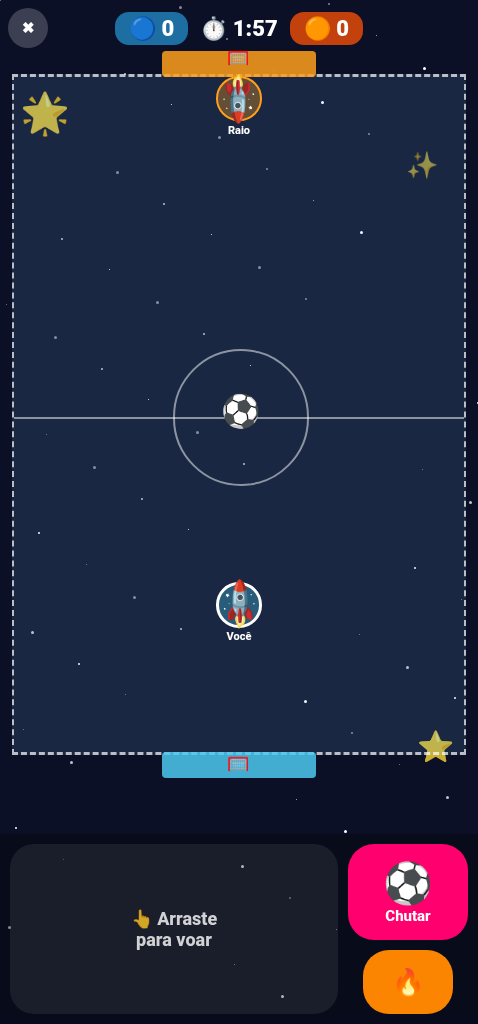
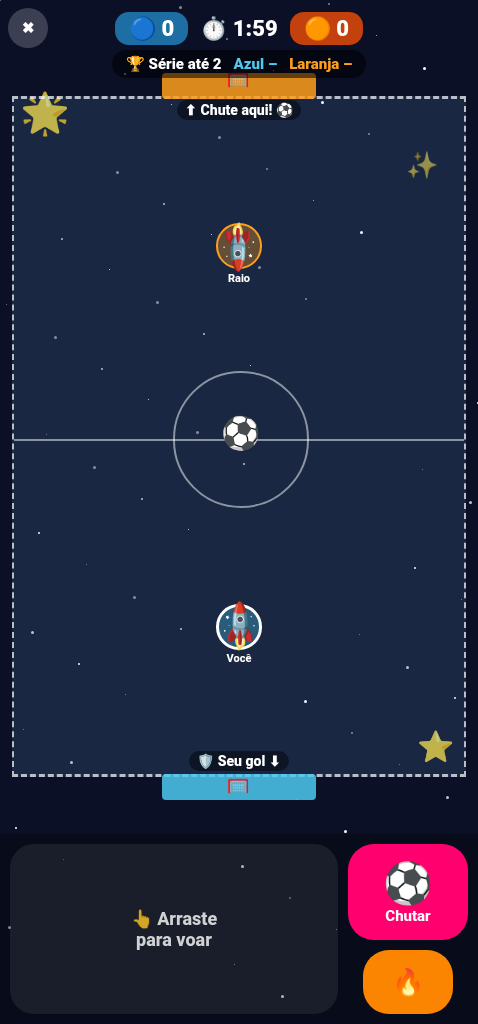
Online igual ao Nodex: modal, sala com 4 vagas, série 2/3/5 com ranking e campeão, setas do gol, entrar tenta 3 vezes

diff --git a/App.tsx b/App.tsx
@@ -108,6 +108,12 @@ export default function App() {
   const [lobby, setLobby] = useState<{ ids: number[]; nicks: Record<number, string> }>({ ids: [], nicks: {} });
   const [code, setCode] = useState('');
   const [msg, setMsg] = useState('');
+  const [ov, setOv] = useState<'choose' | 'join' | 'wait'>('choose');
+  const [bo, setBo] = useState(3); const boRef = useRef(3); boRef.current = bo;
+  type Ser = { w: number[]; champ: number; match: number };
+  const [ser, setSer] = useState<Ser>({ w: [0, 0], champ: -1, match: 0 }); const serRef = useRef<Ser>(ser);
+  const applyScore = (x: Ser) => { serRef.current = x; setSer(x); };
+  const resetSeries = () => applyScore({ w: [0, 0], champ: -1, match: 0 });
   const [, setTick] = useState(0);
   const [result, setResult] = useState<number[]>([0, 0]);
   const [myTeam, setMyTeam] = useState(0);
@@ -135,7 +141,15 @@ export default function App() {
 
   const toView = (s: Sim): View2 => ({ ps: s.ps.map(p => ({ id: p.id, x: p.x, y: p.y, a: p.a, team: p.team, nick: p.nick, turbo: p.turbo > 0 })), bx: s.bx, by: s.by, bOut: s.bOut > 0, sc: [...s.sc], tm: s.tm, ev: s.ev, evT: s.evT });
 
-  const finish = (sc: number[]) => { setResult(sc); setMode('end'); vib(120); };
+  const finish = (sc: number[]) => {
+    setResult(sc); setMode('end'); vib(120);
+    const r = roomRef.current;
+    if (r?.isHost) { // o host conta as vitórias da série e manda para todos
+      const w = sc[0] > sc[1] ? 0 : sc[1] > sc[0] ? 1 : -1; const nw = [...serRef.current.w]; if (w >= 0) nw[w]++;
+      const nx = { w: nw, champ: w >= 0 && nw[w] >= boRef.current ? w : -1, match: serRef.current.match }; applyScore(nx); r.send({ t: 'score', ...nx });
+      if (nx.champ >= 0) setTimeout(() => { r.close(); setRoom(null); }, 2500); // série acabou: desconecta
+    }
+  };
 
   // ---------- Loop ----------
   useEffect(() => {
@@ -196,11 +210,12 @@ export default function App() {
   }, [mode]);
 
   // ---------- Modos ----------
-  const startSolo = () => { vib(); leave(); meRef.current = 0; setMyTeam(0); sim.current = newSim([{ id: 0, nick: 'Você' }, { id: 1, nick: 'Robô', ai: true }]); setOnline(false); setMode('play'); };
+  const startSolo = () => { vib(); leave(); resetSeries(); meRef.current = 0; setMyTeam(0); sim.current = newSim([{ id: 0, nick: 'Você' }, { id: 1, nick: 'Robô', ai: true }]); setOnline(false); setMode('play'); };
+  useEffect(() => { if (room) setOnline(true); }, [room]);
   const leave = () => { roomRef.current?.close(); setRoom(null); snap.current = { prev: null, next: null, at: 0 }; };
   const backMenu = () => { vib(); leave(); sim.current = null; setMode('menu'); setMsg(''); setCode(''); };
 
-  const hostLobby = (r: Room) => { const ids = r.ids(); const ln = { ids, nicks: { ...nicksRef.current } }; setLobby(ln); r.send({ t: 'lobby', ids, nicks: ln.nicks, map: mapRef.current, cap: 4 }); };
+  const hostLobby = (r: Room) => { const ids = r.ids(); const ln = { ids, nicks: { ...nicksRef.current } }; setLobby(ln); r.send({ t: 'lobby', ids, nicks: ln.nicks, map: mapRef.current, cap: 4 }); r.send({ t: 'bo', n: boRef.current }); };
   const handlers = (getR: () => Room | null) => ({
     onMsg: (m: Msg) => {
       const r = getR();
@@ -214,28 +229,38 @@ export default function App() {
         const sn = snap.current; if (sn.next && sn.next.ev !== v.ev && v.ev.startsWith('GOL')) sfx('goal'); sn.prev = sn.next || v; sn.next = v; sn.at = performance.now();
       }
       else if (m.t === 'end') { finish(m.sc); }
+      else if (m.t === 'bo') { if ([2, 3, 5].includes(m.n)) { setBo(m.n); boRef.current = m.n; } }
+      else if (m.t === 'score') { if (!getR()?.isHost) { applyScore({ w: m.w, champ: m.champ, match: m.match }); if (m.champ >= 0) setTimeout(() => { getR()?.close(); setRoom(null); }, 2500); } }
     },
-    onClose: () => { setMsg('A sala fechou 😢'); leave(); setMode('menu'); },
+    onClose: () => { if (serRef.current.champ >= 0) { setRoom(null); return; } setMsg('A sala fechou 😢'); leave(); setMode('menu'); },
   });
+  const errText = (e: any) => e === 'full' ? 'Sala cheia ou já começou 🙈' : e === 'timeout' ? 'Demorou demais ⏳ Tente de novo.' : 'Não achei essa sala 🔍 Confira o número!';
   const create = async () => {
-    vib(); setMsg('Criando sala... ⏳');
+    vib(); resetSeries(); setOv('wait');
     try { let rr: Room | null = null; const r = await createRoom(handlers(() => rr)); rr = r; meRef.current = 0; nicksRef.current = { 0: nick }; setRoom(r); hostLobby(r); setMsg(''); setMode('lobby'); }
-    catch { setMsg('Não deu para criar a sala 😢 Tente de novo.'); }
+    catch (e) { setOv('choose'); setMsg('Não deu para criar a sala 😢 Tente de novo.'); }
   };
   const join = async () => {
-    if (code.length !== 4) return; vib(); setMsg('Entrando... ⏳');
-    try { let rr: Room | null = null; const r = await joinRoom(code, handlers(() => rr)); rr = r; meRef.current = r.me; setRoom(r); r.send({ t: 'nick', i: r.me, n: nick }); setMsg(''); setMode('lobby'); }
-    catch (e) { setMsg(e === 'full' ? 'Sala cheia ou já começou 🙈' : 'Não achei essa sala 🔍'); }
+    if (code.length !== 4) return; vib(); resetSeries(); setOv('wait'); setMsg('');
+    let err: any = null;
+    for (let t = 0; t < 3; t++) { // a sala pode demorar um pouquinho para aparecer: tenta 3 vezes
+      try { let rr: Room | null = null; const r = await joinRoom(code, handlers(() => rr)); rr = r; meRef.current = r.me; setRoom(r); r.send({ t: 'nick', i: r.me, n: nick }); setMode('lobby'); return; }
+      catch (e) { err = e; if (e === 'full') break; await new Promise(z => setTimeout(z, 1500)); }
+    }
+    setOv('join'); setCode(''); setMsg(errText(err));
   };
   const hostStart = () => {
-    const r = roomRef.current; if (!r || r.ids().length < 2) return; vib(); r.lock();
+    const r = roomRef.current; if (!r || r.ids().length < 2 || serRef.current.champ >= 0) return; vib(); r.lock();
     const ids = r.ids(); sim.current = newSim(ids.map(i => ({ id: i, nick: nicksRef.current[i] || '?' }))); setMyTeam(0);
+    const nx = { ...serRef.current, match: serRef.current.match + 1 }; applyScore(nx); r.send({ t: 'score', ...nx });
     r.send({ t: 'start', map, ids, nicks: nicksRef.current }); setMode('play');
   };
+  const playAgain = () => { vib(); leave(); resetSeries(); sim.current = null; setCode(''); setMsg(''); setOv('choose'); setMode('nick'); };
 
   // ---------- Desenho ----------
   const M = MAPS[map];
-  const top = 74, ctrlH = 190;
+  const onl = !!room || (mode === 'end' && online);
+  const top = room ? 96 : 74, ctrlH = 190;
   const sc = Math.min((width - 24) / FW, (height - top - ctrlH - 16) / FH);
   const fw = FW * sc, fh = FH * sc, ox = (width - fw) / 2;
 
@@ -252,8 +277,10 @@ export default function App() {
       </>}
     </View>
   );
+  const MapPick = ({ can, card }: { can: boolean; card?: boolean }) => <View style={st.row}>{(Object.keys(MAPS) as MapId[]).map(k => <Pressable key={k} testID={'map-' + k} onPress={() => { if (!can) return; vib(); setMap(k); mapRef.current = k; if (roomRef.current?.isHost) hostLobby(roomRef.current); }} style={[st.mapBtn, card && { backgroundColor: '#E9ECEF' }, map === k && st.mapOn, !can && map !== k && { opacity: 0.4 }]}><Text style={{ fontSize: 36 }}>{MAPS[k].emoji}</Text><Text style={[st.btnTxt, card && { color: '#023047' }]}>{MAPS[k].name}</Text></Pressable>)}</View>;
+  const SeriesBar = () => <View style={st.serBar}><Text style={st.serTxt}>🏆 Série até {bo}</Text><Text style={[st.serTxt, { color: TEAM[0].col }]}>Azul {'⭐'.repeat(ser.w[0]) || '–'}</Text><Text style={[st.serTxt, { color: TEAM[1].col }]}>Laranja {'⭐'.repeat(ser.w[1]) || '–'}</Text></View>;
 
-  if (mode === 'menu' || mode === 'nick') return (
+  if (mode === 'menu') return (
     <View style={[st.root, { backgroundColor: M.bg }]}>
       <Bg />
       <ScrollView contentContainerStyle={st.menu}>
@@ -261,61 +288,93 @@ export default function App() {
         <Text style={st.title}>Futebol Espacial</Text>
         <Text style={st.sub}>Os foguetinhos jogam bola no espaço!</Text>
         <Text style={st.label}>Escolha o mapa</Text>
-        <View style={st.row}>
-          {(Object.keys(MAPS) as MapId[]).map(k => <Pressable key={k} onPress={() => { vib(); setMap(k); }} style={[st.mapBtn, map === k && st.mapOn]}>
-            <Text style={{ fontSize: 40 }}>{MAPS[k].emoji}</Text><Text style={st.btnTxt}>{MAPS[k].name}</Text></Pressable>)}
-        </View>
-        {mode === 'menu' ? <>
-          <Pressable onPress={startSolo} style={[st.btn, { backgroundColor: '#06D6A0' }]}><Text style={st.btnTxt}>🤖 Contra o computador</Text></Pressable>
-          <Pressable onPress={() => { vib(); setMode('nick'); setMsg(''); }} style={[st.btn, { backgroundColor: '#8338EC' }]}><Text style={st.btnTxt}>👥 Online com amigos</Text></Pressable>
-          <Text style={st.help}>Arraste o dedo à esquerda para voar. ⚽ chuta, 🔥 dá turbo. Faça {GOALS_TO_WIN} gols para ganhar!</Text>
-        </> : <>
-          {!onlineAvailable() ? <Text style={st.help}>O online funciona no navegador 🌐</Text> : <>
-            <Text style={st.label}>Seu apelido</Text>
-            <View style={[st.row, { flexWrap: 'wrap' }]}>{NICKS.map(n => <Pressable key={n} onPress={() => { vib(8); setNick(n); }} style={[st.chip, nick === n && st.chipOn]}><Text style={st.chipTxt}>{n}</Text></Pressable>)}</View>
-            <Pressable onPress={create} style={[st.btn, { backgroundColor: '#06D6A0' }]}><Text style={st.btnTxt}>✨ Criar sala</Text></Pressable>
-            <Text style={st.label}>Ou entre com o código</Text>
-            <Text style={st.code}>{(code + '____').slice(0, 4).split('').join(' ')}</Text>
-            <View style={st.pad}>{['1', '2', '3', '4', '5', '6', '7', '8', '9', '⌫', '0', '✔'].map(d => <Pressable key={d} onPress={() => { vib(8); if (d === '⌫') setCode(c => c.slice(0, -1)); else if (d === '✔') join(); else setCode(c => (c + d).slice(0, 4)); }} style={[st.key, d === '✔' && { backgroundColor: code.length === 4 ? '#06D6A0' : '#555' }]}><Text style={st.btnTxt}>{d}</Text></Pressable>)}</View>
-          </>}
-          <Pressable onPress={backMenu} style={[st.btn, { backgroundColor: '#444' }]}><Text style={st.btnTxt}>⬅ Voltar</Text></Pressable>
-        </>}
+        <MapPick can />
+        <Pressable onPress={startSolo} style={[st.btn, { backgroundColor: '#06D6A0' }]}><Text style={st.btnTxt}>🤖 Contra o computador</Text></Pressable>
+        <Pressable onPress={() => { vib(); setOv('choose'); setMsg(''); setMode('nick'); }} style={[st.btn, { backgroundColor: '#8338EC' }]}><Text style={st.btnTxt}>👥 Online</Text></Pressable>
+        <Text style={st.help}>Arraste o dedo à esquerda para voar. ⚽ chuta, 🔥 dá turbo. Faça {GOALS_TO_WIN} gols para ganhar!</Text>
         {!!msg && <Text style={st.msg}>{msg}</Text>}
       </ScrollView>
     </View>
   );
 
-  if (mode === 'lobby') return (
+  if (mode === 'nick') return (
     <View style={[st.root, { backgroundColor: M.bg }]}><Bg />
       <ScrollView contentContainerStyle={st.menu}>
-        <Text style={st.title}>Sala {room?.code}</Text>
-        <Text style={st.sub}>{room?.isHost ? 'Fale o código para os amigos! (2 a 4 jogadores)' : 'Esperando o dono da sala começar... ⏳'}</Text>
-        {lobby.ids.map((i, k) => <View key={i} style={[st.player, { backgroundColor: TEAM[k % 2].dark }]}><Text style={st.btnTxt}>🚀 {lobby.nicks[i] || '...'} {i === room?.me ? '(você)' : ''}</Text><Text style={st.chipTxt}>Time {TEAM[k % 2].name}</Text></View>)}
-        {room?.isHost && <><Text style={st.label}>Mapa</Text><View style={st.row}>{(Object.keys(MAPS) as MapId[]).map(k => <Pressable key={k} onPress={() => { vib(); setMap(k); mapRef.current = k; roomRef.current && hostLobby(roomRef.current); }} style={[st.mapBtn, map === k && st.mapOn]}><Text style={{ fontSize: 36 }}>{MAPS[k].emoji}</Text><Text style={st.btnTxt}>{MAPS[k].name}</Text></Pressable>)}</View>
-          <Pressable onPress={hostStart} style={[st.btn, { backgroundColor: lobby.ids.length >= 2 ? '#06D6A0' : '#555' }]}><Text style={st.btnTxt}>{lobby.ids.length >= 2 ? '▶ Começar!' : 'Esperando amigos...'}</Text></Pressable></>}
-        {!room?.isHost && <Text style={st.sub}>Mapa: {M.emoji} {M.name}</Text>}
-        <Pressable onPress={backMenu} style={[st.btn, { backgroundColor: '#444' }]}><Text style={st.btnTxt}>⬅ Sair</Text></Pressable>
+        <View style={st.card}>
+          <Text style={st.cardTitle}>Jogo online 👥</Text>
+          {!onlineAvailable() ? <Text style={st.cardSub}>O online funciona no navegador 🌐</Text>
+          : ov === 'wait' ? <Text style={st.cardSub}>Conectando... ⏳</Text>
+          : ov === 'choose' ? <>
+            <Text style={st.cardSub}>Escolha seu apelido:</Text>
+            <View style={[st.row, { flexWrap: 'wrap' }]}>{NICKS.map(n => <Pressable key={n} onPress={() => { vib(8); setNick(n); }} style={[st.chip, nick === n && st.chipOn]}><Text style={[st.chipTxt, nick === n && { color: '#fff' }]}>{n}</Text></Pressable>)}</View>
+            <Pressable onPress={create} style={[st.btn, { backgroundColor: '#FB8500' }]}><Text style={st.btnTxt}>➕ Criar sala</Text></Pressable>
+            <Pressable onPress={() => { vib(); setCode(''); setMsg(''); setOv('join'); }} style={[st.btn, { backgroundColor: '#219EBC' }]}><Text style={st.btnTxt}>🔢 Entrar</Text></Pressable>
+          </> : <>
+            <Text style={st.cardSub}>Digite o número da sala:</Text>
+            <Text style={st.codeDark}>{(code + '____').slice(0, 4).split('').join(' ')}</Text>
+            <View style={st.pad}>{['1', '2', '3', '4', '5', '6', '7', '8', '9', '⌫', '0', '✔'].map(d => <Pressable key={d} onPress={() => { vib(8); if (d === '⌫') setCode(c => c.slice(0, -1)); else if (d === '✔') join(); else setCode(c => (c + d).slice(0, 4)); }} style={[st.key, d === '✔' && { backgroundColor: code.length === 4 ? '#06D6A0' : '#ADB5BD' }]}><Text style={st.keyTxt}>{d}</Text></Pressable>)}</View>
+          </>}
+          {!!msg && <Text style={st.msgDark}>{msg}</Text>}
+          <Pressable onPress={() => { vib(); if (ov === 'join') { setOv('choose'); setMsg(''); } else backMenu(); }} style={[st.btn, { backgroundColor: '#ADB5BD' }]}><Text style={st.btnTxt}>← Voltar</Text></Pressable>
+        </View>
       </ScrollView>
     </View>
   );
 
+  if (mode === 'lobby') { const host = !!room?.isHost; return (
+    <View style={[st.root, { backgroundColor: M.bg }]}><Bg />
+      <ScrollView contentContainerStyle={st.menu}>
+        <View style={st.card}>
+          <Text style={st.cardTitle}>Futebol online 👥</Text>
+          <Text style={st.cardSub}>Número da sala:</Text>
+          <Text style={st.bigCode}>{room?.code.split('').join(' ')}</Text>
+          <View style={st.row}>{[0, 1, 2, 3].map(k => { const i = lobby.ids[k]; const has = i !== undefined; return (
+            <View key={k} style={{ alignItems: 'center', width: 76 }}>
+              <View style={[st.slot, has && { backgroundColor: TEAM[k % 2].col, borderColor: TEAM[k % 2].dark }]}><Text style={{ fontSize: 22 }}>{has ? '🚀' : ''}</Text></View>
+              <Text style={st.slotTxt} numberOfLines={2}>{has ? `${lobby.nicks[i] || '...'}${i === room?.me ? '\n(você)' : ''}` : '–'}</Text>
+            </View>); })}</View>
+          <Text style={st.cardSub}>{lobby.ids.length}/4 na sala</Text>
+          <Text style={st.cardLabel}>🏆 Série: quem ganhar primeiro</Text>
+          <View style={st.row}>{[2, 3, 5].map(n => <Pressable key={n} testID={'bo-' + n} onPress={() => { if (!host) return; vib(8); setBo(n); boRef.current = n; roomRef.current?.send({ t: 'bo', n }); }} style={[st.chip, { paddingHorizontal: 16 }, bo === n && st.chipOn, !host && bo !== n && { opacity: 0.4 }]}><Text style={[st.chipTxt, { fontSize: 17 }, bo === n && { color: '#fff' }]}>{n} vitórias</Text></Pressable>)}</View>
+          <Text style={st.cardLabel}>Mapa</Text>
+          <MapPick can={host} card />
+          {host ? <Pressable onPress={hostStart} style={[st.btn, { backgroundColor: lobby.ids.length >= 2 ? '#06D6A0' : '#A8E6CF' }]}><Text style={st.btnTxt}>{lobby.ids.length >= 2 ? '▶ Começar!' : 'Esperando...'}</Text></Pressable>
+            : <Text style={st.cardSub}>Esperando o dono da sala começar... ⏳</Text>}
+          <Pressable onPress={backMenu} style={[st.btn, { backgroundColor: '#ADB5BD' }]}><Text style={st.btnTxt}>← Voltar</Text></Pressable>
+        </View>
+      </ScrollView>
+    </View>
+  ); }
+
   if (mode === 'end') {
     const win = result[myTeam] > result[1 - myTeam], tie = result[0] === result[1];
+    const champ = ser.champ;
+    const rank = online ? lobby.ids.map((i, k) => ({ i, team: k % 2, nick: lobby.nicks[i] || '?' })).sort((a, b) => ser.w[b.team] - ser.w[a.team]) : [];
     return (
       <View style={[st.root, { backgroundColor: M.bg }]}><Bg />
-        {win && <Confetti />}
-        <View style={st.menu}>
-          <Text style={st.big}>{tie ? '🤝' : win ? '🏆' : '⭐'}</Text>
-          <Text style={st.title}>{tie ? 'Empate!' : win ? 'Você ganhou!' : `Time ${TEAM[result[0] > result[1] ? 0 : 1].name} ganhou!`}</Text>
-          <View style={st.row}><View style={[st.scoreBox, { backgroundColor: TEAM[0].dark }]}><Text style={st.score}>{result[0]}</Text><Text style={st.chipTxt}>Azul</Text></View>
-            <Text style={st.score}>x</Text><View style={[st.scoreBox, { backgroundColor: TEAM[1].dark }]}><Text style={st.score}>{result[1]}</Text><Text style={st.chipTxt}>Laranja</Text></View></View>
-          {!win && !tie && <Text style={st.sub}>Foi muito legal! Vamos de novo? 💪</Text>}
-          <Pressable onPress={backMenu} style={[st.btn, { backgroundColor: '#06D6A0' }]}><Text style={st.btnTxt}>🏠 Voltar ao início</Text></Pressable>
-        </View>
+        {(online ? champ === myTeam : win) && <Confetti />}
+        <ScrollView contentContainerStyle={st.menu}>
+          <Text style={st.big}>{online && champ >= 0 ? '👑' : tie ? '🤝' : win ? '🏆' : '⭐'}</Text>
+          <Text style={st.title}>{online && champ >= 0 ? `Time ${TEAM[champ].name} é campeão!` : tie ? 'Empate!' : win ? 'Você ganhou!' : `Time ${TEAM[result[0] > result[1] ? 0 : 1].name} ganhou!`}</Text>
+          <View style={st.row}><View style={[st.scoreBox, { backgroundColor: TEAM[0].dark }]}><Text style={st.score}>{result[0]}</Text><Text style={st.chipTxt2}>Azul</Text></View>
+            <Text style={st.score}>x</Text><View style={[st.scoreBox, { backgroundColor: TEAM[1].dark }]}><Text style={st.score}>{result[1]}</Text><Text style={st.chipTxt2}>Laranja</Text></View></View>
+          {online && <>
+            <SeriesBar />
+            <View style={st.card}>
+              <Text style={st.cardLabel}>🏅 Ranking (partida {ser.match})</Text>
+              {rank.map((p, k) => <View key={p.i} style={st.rankRow}><Text style={st.rankTxt}>{champ === p.team ? '👑' : `${k + 1}º`} 🚀 {p.nick}{p.i === meRef.current ? ' (você)' : ''}</Text><Text style={[st.rankTxt, { color: TEAM[p.team].dark }]}>{'⭐'.repeat(ser.w[p.team]) || '–'}</Text></View>)}
+            </View>
+            {champ < 0 ? (room?.isHost ? <Pressable testID="next-match" onPress={hostStart} style={[st.btn, { backgroundColor: '#06D6A0' }]}><Text style={st.btnTxt}>▶ Próxima partida</Text></Pressable>
+              : room ? <Text style={st.sub}>Esperando a próxima partida... ⏳</Text> : null)
+              : <><Text style={st.sub}>A série acabou! Para jogar de novo, entre na sala outra vez.</Text>
+                <Pressable onPress={playAgain} style={[st.btn, { backgroundColor: '#8338EC' }]}><Text style={st.btnTxt}>🔁 Jogar de novo</Text></Pressable></>}
+          </>}
+          {!win && !tie && !online && <Text style={st.sub}>Foi muito legal! Vamos de novo? 💪</Text>}
+          <Pressable onPress={backMenu} style={[st.btn, { backgroundColor: online ? '#555' : '#06D6A0' }]}><Text style={st.btnTxt}>🏠 Voltar ao início</Text></Pressable>
+        </ScrollView>
       </View>
     );
   }
-
   // play
   let v: View2 | null = null;
   if (room && !room.isHost) { const sn = snap.current; if (sn.next && sn.prev) { const t = Math.min(1, (performance.now() - sn.at) / 55), L = (a: number, b: number) => a + (b - a) * t;
@@ -327,7 +386,7 @@ export default function App() {
     <View style={[st.root, { backgroundColor: M.bg }]}>
       <Bg />
       <View style={st.hud}>
-        <Pressable onPress={backMenu} style={st.exit}><Text style={st.chipTxt}>✖</Text></Pressable>
+        <Pressable onPress={backMenu} style={st.exit}><Text style={st.chipTxt2}>✖</Text></Pressable>
         <View style={[st.hudScore, { backgroundColor: TEAM[0].dark }]}><Text style={st.hudTxt}>🔵 {v?.sc[0] ?? 0}</Text></View>
         <Text style={st.hudTxt}>⏱ {Math.floor((v?.tm ?? 0) / 60)}:{String(Math.floor((v?.tm ?? 0) % 60)).padStart(2, '0')}</Text>
         <View style={[st.hudScore, { backgroundColor: TEAM[1].dark }]}><Text style={st.hudTxt}>🟠 {v?.sc[1] ?? 0}</Text></View>
@@ -342,6 +401,9 @@ export default function App() {
       <View style={{ position: 'absolute', left: X(GL), top: Y(FH) - 3, width: (GR - GL) * sc, height: 5 * sc + 3, backgroundColor: TEAM[0].col, opacity: 0.85, borderRadius: 4 }} />
       <Text style={{ position: 'absolute', left: X(FW / 2) - 12, top: Y(-5) - 4, fontSize: 18 }}>🥅</Text>
       <Text style={{ position: 'absolute', left: X(FW / 2) - 12, top: Y(FH) - 2, fontSize: 18 }}>🥅</Text>
+      <View style={[st.goalTag, { top: Y(0) + 4, left: X(GL), width: (GR - GL) * sc }]} pointerEvents="none"><Text style={st.goalTxt}>{myTeam === 0 ? '⬆ Chute aqui! ⚽' : '🛡 Seu gol ⬆'}</Text></View>
+      <View style={[st.goalTag, { top: Y(FH) - 26, left: X(GL), width: (GR - GL) * sc }]} pointerEvents="none"><Text style={st.goalTxt}>{myTeam === 0 ? '🛡 Seu gol ⬇' : '⬇ Chute aqui! ⚽'}</Text></View>
+      {room && <View style={{ position: 'absolute', top: 50, left: 0, right: 0, alignItems: 'center' }}><SeriesBar /></View>}
       {v?.ps.map(p => { const me = p.id === meRef.current; return (
         <View key={p.id} style={{ position: 'absolute', left: X(p.x) - PR * sc, top: Y(p.y) - PR * sc, width: PR * 2 * sc, height: PR * 2 * sc, borderRadius: PR * sc, backgroundColor: TEAM[p.team].col + '55', borderWidth: me ? 3 : 2, borderColor: me ? '#fff' : TEAM[p.team].col, alignItems: 'center', justifyContent: 'center' }} pointerEvents="none">
           <Text style={{ fontSize: PR * 1.5 * sc, transform: [{ rotate: `${p.a + 45}deg` }] }}>🚀</Text>
@@ -358,7 +420,7 @@ export default function App() {
             <View style={{ position: 'absolute', left: 60 - 26 + j.x * 0.6, top: 60 - 26 + j.y * 0.6, width: 52, height: 52, borderRadius: 26, backgroundColor: TEAM[myTeam].col }} /></View>}
         </View>
         <View style={{ gap: 10, justifyContent: 'center' }}>
-          <View ref={kickBtn} style={[st.act, { backgroundColor: pressed.k ? '#fff' : '#FF006E' }]}><Text style={st.actTxt}>⚽</Text><Text style={st.chipTxt}>Chutar</Text></View>
+          <View ref={kickBtn} style={[st.act, { backgroundColor: pressed.k ? '#fff' : '#FF006E' }]}><Text style={st.actTxt}>⚽</Text><Text style={st.chipTxt2}>Chutar</Text></View>
           <View ref={turboBtn} style={[st.act, { width: 90, height: 64, backgroundColor: pressed.b ? '#fff' : '#FB8500' }]}><Text style={{ fontSize: 26 }}>🔥</Text></View>
         </View>
       </View>
@@ -377,6 +439,17 @@ const st = StyleSheet.create({
   root: { flex: 1, overflow: 'hidden', userSelect: 'none' as any },
   menu: { alignItems: 'center', padding: 20, gap: 12, paddingTop: 40, flexGrow: 1 },
   big: { fontSize: 56 }, title: { fontSize: 34, fontWeight: '900', color: '#fff', textAlign: 'center' },
+  card: { backgroundColor: '#fff', borderRadius: 26, padding: 18, width: '100%', maxWidth: 440, alignItems: 'center', gap: 12 },
+  cardTitle: { fontSize: 28, fontWeight: '900', color: '#FB5607', textAlign: 'center' }, cardSub: { fontSize: 19, color: '#023047', textAlign: 'center' },
+  cardLabel: { fontSize: 18, fontWeight: '900', color: '#023047', textAlign: 'center' },
+  bigCode: { fontSize: 58, fontWeight: '900', color: '#023047', letterSpacing: 6 }, codeDark: { fontSize: 42, fontWeight: '900', color: '#023047', letterSpacing: 4 },
+  slot: { width: 50, height: 50, borderRadius: 12, borderWidth: 3, borderColor: '#023047', backgroundColor: '#E9ECEF', alignItems: 'center', justifyContent: 'center' },
+  slotTxt: { fontSize: 13, fontWeight: '800', color: '#023047', textAlign: 'center', marginTop: 4 },
+  keyTxt: { fontSize: 24, fontWeight: '900', color: '#023047' }, msgDark: { color: '#D00000', fontSize: 18, fontWeight: '800', textAlign: 'center' },
+  serBar: { flexDirection: 'row', gap: 12, backgroundColor: 'rgba(0,0,0,0.55)', paddingHorizontal: 14, paddingVertical: 5, borderRadius: 14, alignItems: 'center' }, serTxt: { color: '#fff', fontSize: 15, fontWeight: '900' },
+  rankRow: { flexDirection: 'row', justifyContent: 'space-between', width: '100%', paddingVertical: 4 }, rankTxt: { fontSize: 19, fontWeight: '800', color: '#023047' },
+  chipTxt2: { color: '#fff', fontSize: 15, fontWeight: '800' },
+  goalTag: { position: 'absolute', alignItems: 'center' }, goalTxt: { color: '#fff', fontSize: 14, fontWeight: '900', backgroundColor: 'rgba(0,0,0,0.45)', paddingHorizontal: 8, paddingVertical: 2, borderRadius: 10, overflow: 'hidden' },
   sub: { fontSize: 18, color: '#FFE8A3', textAlign: 'center', fontWeight: '700' },
   label: { fontSize: 18, color: '#fff', fontWeight: '800', marginTop: 6 },
   row: { flexDirection: 'row', gap: 12, justifyContent: 'center', alignItems: 'center' },
@@ -386,11 +459,11 @@ const st = StyleSheet.create({
   btnTxt: { color: '#fff', fontSize: 22, fontWeight: '900' },
   help: { color: '#ddd', fontSize: 16, textAlign: 'center', maxWidth: 340 },
   msg: { color: '#FFBE0B', fontSize: 18, fontWeight: '800', textAlign: 'center' },
-  chip: { paddingHorizontal: 12, paddingVertical: 8, borderRadius: 14, backgroundColor: 'rgba(255,255,255,0.15)', margin: 3 },
-  chipOn: { backgroundColor: '#FFBE0B' }, chipTxt: { color: '#fff', fontSize: 15, fontWeight: '800' },
+  chip: { paddingHorizontal: 12, paddingVertical: 8, borderRadius: 14, backgroundColor: '#E9ECEF', margin: 3 },
+  chipOn: { backgroundColor: '#FB8500' }, chipTxt: { color: '#023047', fontSize: 15, fontWeight: '800' },
   code: { fontSize: 40, color: '#fff', fontWeight: '900', letterSpacing: 4 },
   pad: { flexDirection: 'row', flexWrap: 'wrap', width: 260, gap: 8, justifyContent: 'center' },
-  key: { width: 76, height: 56, borderRadius: 14, backgroundColor: 'rgba(255,255,255,0.18)', alignItems: 'center', justifyContent: 'center' },
+  key: { width: 76, height: 56, borderRadius: 14, backgroundColor: '#E9ECEF', alignItems: 'center', justifyContent: 'center' },
   player: { width: 300, borderRadius: 16, padding: 12, alignItems: 'center' },
   scoreBox: { width: 100, height: 100, borderRadius: 20, alignItems: 'center', justifyContent: 'center' }, score: { color: '#fff', fontSize: 44, fontWeight: '900' },
   hud: { position: 'absolute', top: 6, left: 0, right: 0, height: 44, flexDirection: 'row', alignItems: 'center', justifyContent: 'center', gap: 12 },

diff --git a/online.ts b/online.ts
@@ -9,7 +9,7 @@ export type Msg =
   | { t: 'start'; map: string; ids: number[]; nicks: Record<number, string> }
   | { t: 'in'; i: number; x: number; y: number; k: boolean; b: boolean }
   | { t: 'st'; p: number[][]; b: number[]; sc: number[]; tm: number; ev?: string; out?: boolean }
-  | { t: 'end'; sc: number[] };
+  | { t: 'end'; sc: number[] } | { t: 'bo'; n: number } | { t: 'score'; w: number[]; champ: number; match: number };
 export type Room = { code: string; me: number; isHost: boolean; send: (m: Msg) => void; close: () => void; ids: () => number[]; lock: () => void; setCap: (n: number) => void };
 export type Handlers = { onMsg: (m: Msg) => void; onClose: () => void };
 
